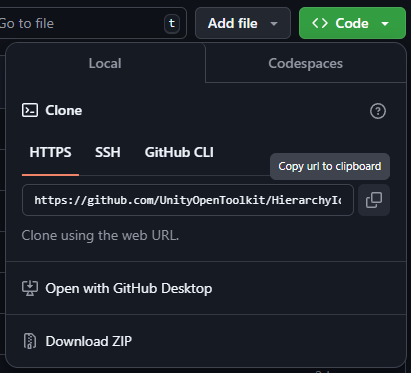
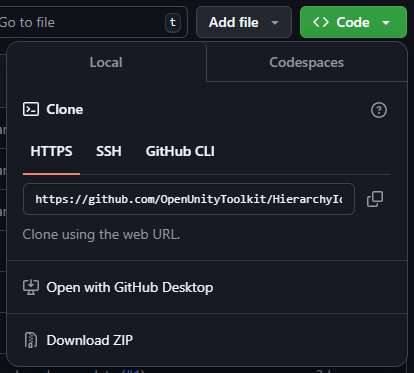
[0.9.3] Rename and settings fix (#2)
fixed settings provider not saving enables
renamed package

diff --git a/Editor/Settings/SimpleSettingsProvider.cs b/Editor/Settings/SimpleSettingsProvider.cs
@@ -78,11 +78,15 @@ namespace OpenToolkit.HierarchyIcons.Settings
 
         static int SettingSort(Setting a, Setting b)
         {
-            return a.Category.CompareTo(b.Category);
+            string stA = a.Category + b.Label;
+            string stB = b.Category + b.Label;
+            return stA.CompareTo(stB);
         }
 
         public void SetEditorSettings()
         {
+            _enabledSetting.Save();
+
             foreach (var setting in _settings)
             {
                 setting.Save();
@@ -101,11 +105,10 @@ namespace OpenToolkit.HierarchyIcons.Settings
 
         public override void OnGUI(string searchContext)
         {
-
             EditorGUI.BeginChangeCheck();
 
-            GUIStyle style = new GUIStyle (GUI.skin.label); 
-            style.margin=new RectOffset(7,0,7,0);
+            GUIStyle style = new GUIStyle(GUI.skin.label);
+            style.margin = new RectOffset(7, 0, 7, 0);
             EditorGUILayout.BeginVertical(style, GUILayout.MaxWidth(220));
 
             EditorGUIUtility.labelWidth = 250;
@@ -116,7 +119,6 @@ namespace OpenToolkit.HierarchyIcons.Settings
                 EditorGUILayout.Space(12);
                 EditorGUI.BeginDisabledGroup(!_enabledSetting.Value);
             }
-
 
             for (var i = 0; i < _settings.Count; i++)
             {
@@ -138,7 +140,6 @@ namespace OpenToolkit.HierarchyIcons.Settings
             }
 
             EditorGUILayout.EndVertical();
-
 
             if (EditorGUI.EndChangeCheck())
             {
